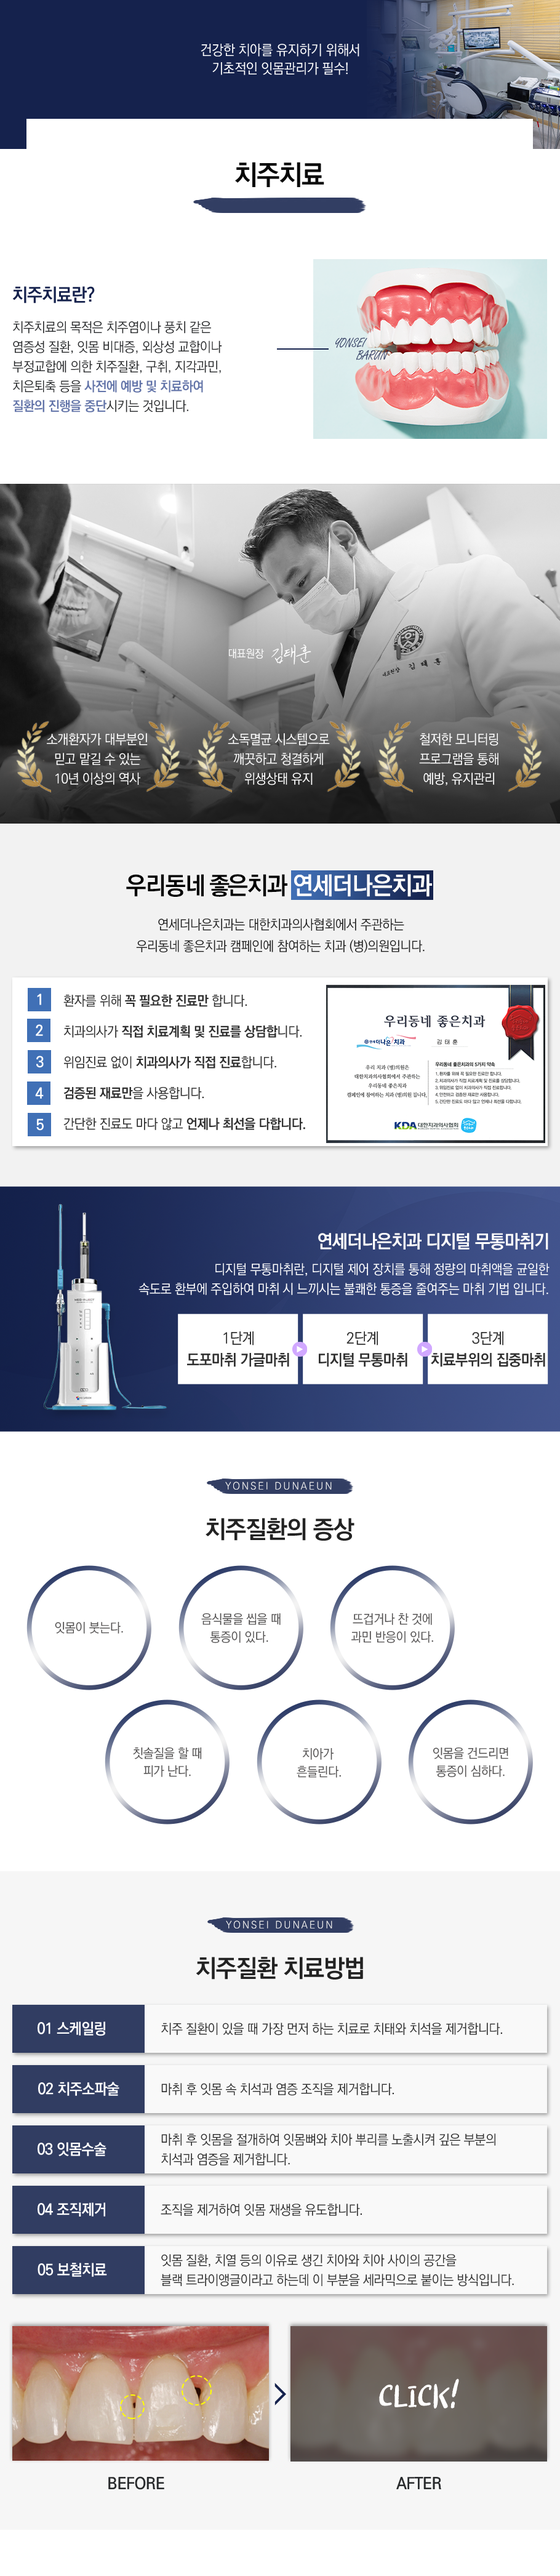
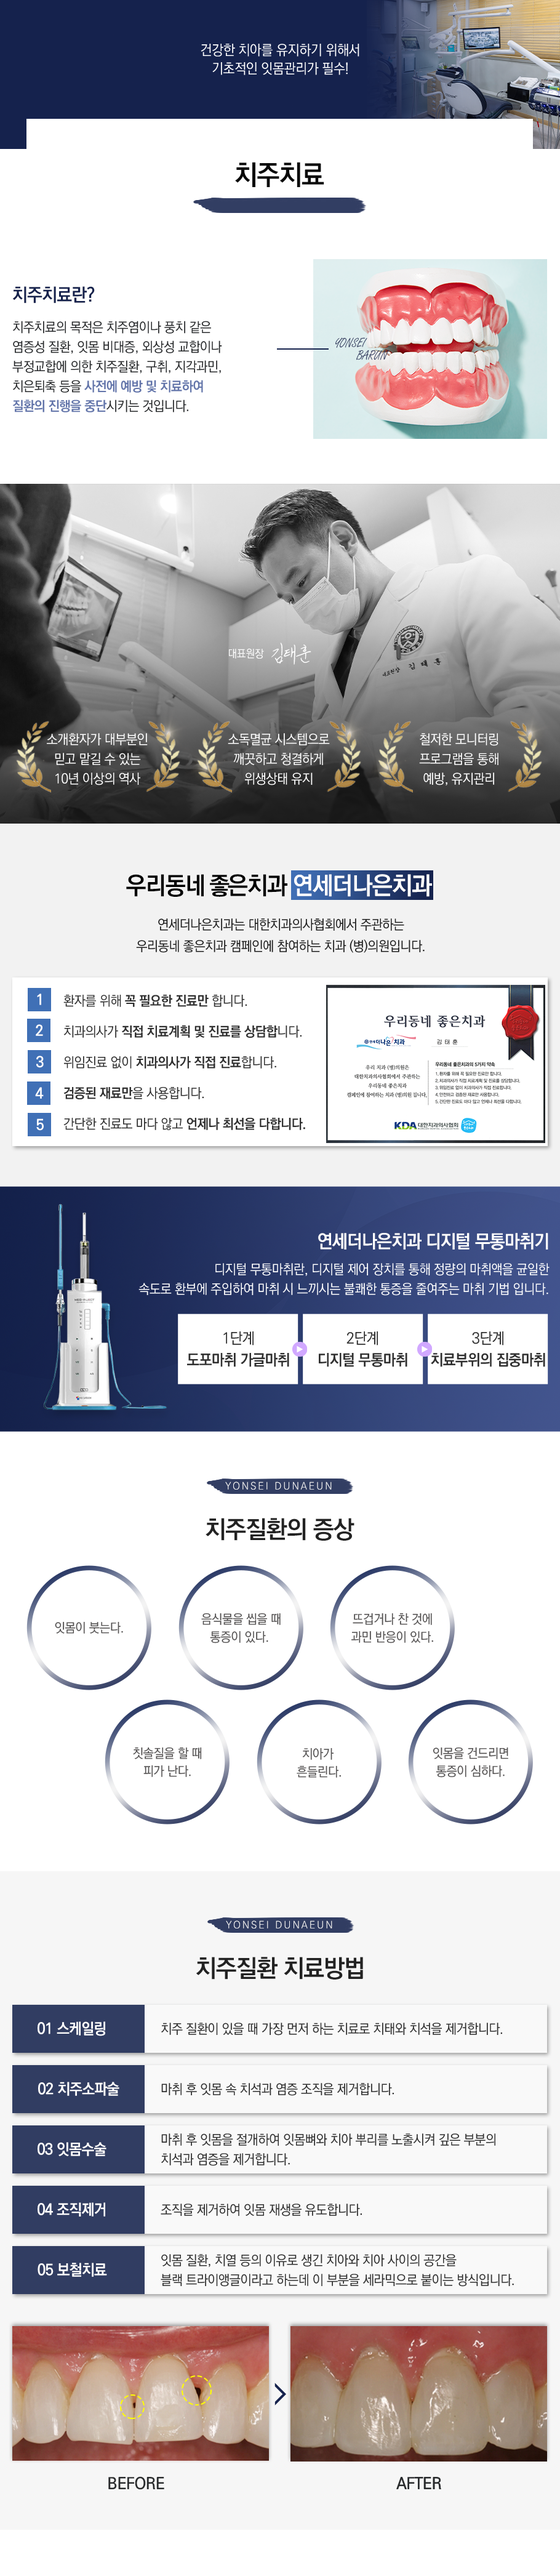
푸터 레이아웃 개선, 이미지 업데이트, 모바일 슬라이드 분리
- 푸터: 로고 왼쪽 배치 및 크기 증가, 모바일 가로 배치, 패딩 축소
- 히어로 슬라이드: 모바일용 mgbg~mgbg5 분리 적용
- 하위 페이지 푸터 HTML 구조 수정 (footer-top 닫기 태그 누락 fix)
- 카테고리 이미지 및 배경 이미지 교체

Changed region(s): [[0.4923, 0.9008, 0.9846, 0.963]]

diff --git a/assets/css/style.css b/assets/css/style.css
@@ -348,34 +348,21 @@ fieldset.form-radio-group legend { font-family: 'Outfit', sans-serif; font-size:
 .hours-closed td { color: var(--accent) !important; font-weight: 500; }
 
 /* ============================================================ FOOTER ============================================================ */
-.main-footer { background: rgba(20, 20, 20, 0.85); backdrop-filter: blur(24px); -webkit-backdrop-filter: blur(24px); padding: 72px 0 40px; color: rgba(255, 255, 255, 0.7); border-top: 1px solid rgba(255, 255, 255, 0.1); position: relative; z-index: 10; }
-.footer-top { margin-bottom: 48px; }
-.footer-columns { display: grid; grid-template-columns: 350px 1fr 180px; gap: 60px; }
-.footer-col { display: flex; flex-direction: column; }
-.footer-logo { margin-bottom: 24px; }
-.footer-logo img { height: 44px; width: auto; filter: invert(1); opacity: 0.9; }
-.footer-slogan { font-family: 'Outfit', 'Noto Sans KR', sans-serif; font-size: 16px; font-weight: 300; color: rgba(255,255,255,0.9); margin-bottom: 24px; letter-spacing: -0.01em; }
-.footer-contact { display: flex; flex-direction: column; gap: 12px; }
-.footer-phone { font-family: 'Outfit', sans-serif; font-size: 26px; font-weight: 300; color: var(--accent); transition: color 0.2s; letter-spacing: 0.05em; display: inline-block; }
-.footer-phone:hover { color: var(--accent-light); }
-.footer-address { font-size: 14px; line-height: 1.6; color: rgba(255, 255, 255, 0.6); }
-.footer-col h4 { font-family: 'Outfit', 'Noto Sans KR', sans-serif; font-size: 16px; margin-bottom: 24px; color: rgba(255, 255, 255, 0.9); font-weight: 500; letter-spacing: -0.01em; }
-.footer-hours table { width: 100%; border-collapse: collapse; max-width: 340px; }
-.footer-hours th, .footer-hours td { padding: 10px 0; font-size: 14px; text-align: left; border-bottom: 1px solid rgba(255, 255, 255, 0.05); }
-.footer-hours th { font-weight: 400; color: rgba(255, 255, 255, 0.5); width: 110px; }
-.footer-hours td { color: rgba(255, 255, 255, 0.85); font-family: 'Outfit', 'Noto Sans KR', sans-serif; font-weight: 300; letter-spacing: 0.02em; }
-.footer-hours tr:last-child th, .footer-hours tr:last-child td { border-bottom: none; }
-.footer-hours .closed { color: var(--accent-light); }
-.footer-links ul { list-style: none; padding: 0; margin: 0; display: flex; flex-direction: column; gap: 14px; }
-.footer-links li a { display: inline-block; font-size: 15px; font-weight: 300; color: rgba(255, 255, 255, 0.6); transition: all 0.2s; }
-.footer-links li a:hover { color: var(--accent); padding-left: 4px; }
-.footer-bottom { border-top: 1px solid rgba(255, 255, 255, 0.1); padding-top: 32px; display: flex; justify-content: space-between; align-items: flex-end; }
-.footer-legal-wrap { display: flex; flex-direction: column; gap: 16px; }
-.footer-legal { display: flex; gap: 24px; }
-.footer-legal a { font-size: 14px; color: rgba(255, 255, 255, 0.9); font-weight: 400; transition: color 0.2s; }
+.main-footer { background: rgba(255, 255, 255, 0.4); backdrop-filter: blur(24px); -webkit-backdrop-filter: blur(24px); padding: 32px 0 32px; color: var(--text-muted); border-top: 1px solid var(--border); position: relative; z-index: 10; }
+.footer-top { margin-bottom: 48px; display: flex; flex-direction: row; align-items: center; gap: 60px; }
+.footer-logo { margin-bottom: 0; flex-shrink: 0; }
+.footer-logo img { height: 80px; width: auto; filter: invert(0); }
+.footer-columns { display: flex; justify-content: flex-start; flex-wrap: wrap; gap: 48px; flex: 1; }
+.footer-col { display: flex; flex-direction: column; flex: 1; min-width: 110px; }
+.footer-col h4 { font-family: 'Outfit', 'Noto Sans KR', sans-serif; font-size: 14px; letter-spacing: 0.1em; text-transform: uppercase; color: var(--text); font-weight: 600; margin-bottom: 20px; text-align: left; }
+.footer-col ul { list-style: none; padding: 0; margin: 0; display: flex; flex-direction: column; gap: 10px; }
+.footer-col li a { display: inline-block; font-size: 14px; font-weight: 300; color: var(--text-muted); padding: 2px 0; transition: all 0.2s; text-align: left; }
+.footer-col li a:hover { color: var(--accent); transform: translateX(4px); }
+.footer-bottom { border-top: 1px solid rgba(0,0,0,0.05); padding-top: 32px; display: flex; justify-content: space-between; align-items: center; font-size: 13px; font-weight: 300; max-width: 900px; margin: 0 auto; width: 100%; }
+.footer-legal { display: flex; gap: 32px; }
+.footer-legal a { color: var(--text-muted); transition: color 0.2s; }
 .footer-legal a:hover { color: var(--accent); }
-.footer-biz-info { font-size: 13px; color: rgba(255, 255, 255, 0.4); line-height: 1.6; }
-.footer-copyright { font-size: 13px; font-family: 'Outfit', sans-serif; color: rgba(255, 255, 255, 0.3); text-align: right; margin-bottom: 4px; }
+.footer-copyright { font-size: 13px; font-family: 'Outfit', sans-serif; color: var(--text-muted); }
 
 /* ============================================================ BUTTONS ============================================================ */
 .btn-primary { display: inline-flex; align-items: center; gap: 8px; background: var(--accent); color: #fff; padding: 14px 32px; font-size: 15px; font-family: 'Outfit', sans-serif; font-weight: 400; border-radius: 50px; transition: all 0.2s; border: none; box-shadow: 0 8px 24px rgba(86,180,233,0.2); }
@@ -556,11 +543,16 @@ fieldset.form-radio-group legend { font-family: 'Outfit', sans-serif; font-size:
   .location-map { height: 300px; }
 
   /* Footer */
-  .footer-columns { grid-template-columns: 1fr 1fr; gap: 48px; }
-  .footer-col.footer-info { grid-column: 1 / -1; }
-  .footer-bottom { flex-direction: column; gap: 24px; align-items: flex-start; }
-  .footer-copyright { text-align: left; }
-  .footer-top { margin-bottom: 48px; }
+  .footer-top { flex-direction: column; align-items: center; margin-bottom: 32px; gap: 24px; }
+  .footer-logo { text-align: center; }
+  .footer-logo img { height: 72px; }
+  .footer-columns { display: flex; flex-wrap: nowrap; gap: 0; width: 100%; }
+  .footer-col { flex: 1; min-width: 0; text-align: center; }
+  .footer-col h4 { font-size: 11px; margin-bottom: 8px; text-align: center; }
+  .footer-col li a { font-size: 11px; }
+  .footer-col ul { gap: 4px; }
+  .footer-bottom { flex-direction: column; gap: 16px; text-align: center; max-width: 100%; }
+  .footer-legal { flex-wrap: wrap; justify-content: center; gap: 24px; }
 
   .floating-contact { display: block; bottom: 60px; right: 16px; z-index: 901; }
   .floating-trigger { width: 52px; height: 52px; font-size: 22px; }
@@ -645,10 +637,15 @@ fieldset.form-radio-group legend { font-family: 'Outfit', sans-serif; font-size:
   .location-hours { padding: 24px; }
   .hours-table td { font-size: 14px; padding: 12px 0; }
 
-  /* Footer: single column */
-  .footer-columns { grid-template-columns: 1fr; gap: 40px; }
-  .footer-top { margin-bottom: 40px;  }
-  .main-footer { padding: 48px 0 40px; }
+  /* Footer: compact row */
+  .footer-top { gap: 16px; margin-bottom: 20px; }
+  .footer-logo img { height: 60px; }
+  .footer-col h4 { font-size: 10px; margin-bottom: 6px; }
+  .footer-col li a { font-size: 10px; }
+  .footer-col ul { gap: 3px; }
+  .footer-col li a { font-size: 11px; text-align: center; }
+  .footer-col ul { gap: 4px; align-items: center; }
+  .main-footer { padding: 16px 0 24px; }
 
   .section-header { flex-direction: column; align-items: flex-start; gap: 16px; }
   .statement-quote { font-size: 72px; }

diff --git a/index.html b/index.html
@@ -166,23 +166,23 @@
         <div class="hero-showcase-inner">
           <div class="hero-bg-slider hero-slider">
             <picture class="slide-item">
-              <source media="(max-width: 1024px)" srcset="assets/images/bg.png">
+              <source media="(max-width: 1024px)" srcset="assets/images/mgbg.png">
               <img src="assets/images/bg.png" alt="연세더나은치과 전경 1" loading="eager">
             </picture>
             <picture class="slide-item">
-              <source media="(max-width: 1024px)" srcset="assets/images/bg2.png">
+              <source media="(max-width: 1024px)" srcset="assets/images/mgbg2.png">
               <img src="assets/images/bg2.png" alt="연세더나은치과 전경 2">
             </picture>
             <picture class="slide-item">
-              <source media="(max-width: 1024px)" srcset="assets/images/bg3.png">
+              <source media="(max-width: 1024px)" srcset="assets/images/mgbg3.png">
               <img src="assets/images/bg3.png" alt="연세더나은치과 전경 3">
             </picture>
             <picture class="slide-item">
-              <source media="(max-width: 1024px)" srcset="assets/images/bg4.png">
+              <source media="(max-width: 1024px)" srcset="assets/images/mgbg4.png">
               <img src="assets/images/bg4.png" alt="연세더나은치과 전경 4">
             </picture>
             <picture class="slide-item">
-              <source media="(max-width: 1024px)" srcset="assets/images/bg5.png">
+              <source media="(max-width: 1024px)" srcset="assets/images/mgbg5.png">
               <img src="assets/images/bg5.png" alt="연세더나은치과 전경 5">
             </picture>
             <div class="hero-bg-overlay"></div>
@@ -619,55 +619,66 @@
   <footer class="main-footer">
     <div class="container">
       <div class="footer-top">
-        <div class="footer-columns">
-          <div class="footer-col footer-info">
-            <div class="footer-logo">
-              <img src="assets/images/logo1.png?v=2" alt="연세더나은치과" width="140" height="40" loading="lazy" decoding="async">
-            </div>
-            <p class="footer-slogan">더 나은 진료, 더 나은 치과.</p>
-            <div class="footer-contact">
-              <a href="tel:0332442080" class="footer-phone">033-244-2080</a>
-              <p class="footer-address">강원도 춘천시 안마산로 111<br>와이나인빌딩 3층</p>
-            </div>
-          </div>
-          
-          <div class="footer-col footer-hours">
-            <h4>진료 시간</h4>
-            <table>
-              <tbody>
-                <tr><th>평일</th><td>09:00 - 18:00</td></tr>
-                <tr><th>토요일</th><td>09:00 - 14:00</td></tr>
-                <tr><th>점심시간</th><td>13:00 - 14:00</td></tr>
-                <tr><th class="closed">일요일·공휴일</th><td class="closed">휴진</td></tr>
-              </tbody>
-            </table>
-          </div>
+        <div class="footer-logo">
+          <img src="assets/images/logo1.png?v=2" alt="연세더나은치과" width="120" height="36" loading="lazy" decoding="async">
+        </div>
 
-          <div class="footer-col footer-links">
-            <h4>주요 진료</h4>
+        <div class="footer-columns">
+          <div class="footer-col">
+            <h4>연세더나은치과</h4>
+            <ul>
+              <li><a href="#about">인사말</a></li>
+              <li><a href="#doctor">의료진 소개</a></li>
+              <li><a href="#location">오시는 길</a></li>
+            </ul>
+          </div>
+          <div class="footer-col">
+            <h4>임플란트</h4>
             <ul>
               <li><a href="implant-main.html">임플란트</a></li>
+              <li><a href="sinus-lift.html">상악동거상술</a></li>
+              <li><a href="bone-graft.html">뼈이식 임플란트</a></li>
+              <li><a href="implant-redo.html">임플란트 재수술</a></li>
+              <li><a href="insurance-implant.html">보험 임플란트</a></li>
+            </ul>
+          </div>
+          <div class="footer-col">
+            <h4>치아교정</h4>
+            <ul>
               <li><a href="orthodontics.html">치아교정</a></li>
-              <li><a href="cavity.html">일반치료</a></li>
-              <li><a href="prosthetics.html">심미치료</a></li>
-              <li><a href="#about">병원 소개</a></li>
+              <li><a href="partial-ortho.html">부분교정</a></li>
+              <li><a href="pediatric-ortho.html">소아교정</a></li>
+            </ul>
+          </div>
+          <div class="footer-col">
+            <h4>일반치료</h4>
+            <ul>
+              <li><a href="cavity.html">충치치료</a></li>
+              <li><a href="root-canal.html">신경치료</a></li>
+              <li><a href="perio.html">치주치료</a></li>
+              <li><a href="wisdom-tooth.html">사랑니 발치</a></li>
+              <li><a href="sealant.html">실란트</a></li>
+              <li><a href="bruxism.html">이갈이</a></li>
+            </ul>
+          </div>
+          <div class="footer-col">
+            <h4>심미치료</h4>
+            <ul>
+              <li><a href="prosthetics.html">보철치료</a></li>
+              <li><a href="zirconia.html">지르코니아</a></li>
+              <li><a href="whitening.html">치아미백</a></li>
+              <li><a href="scaling.html">스케일링</a></li>
             </ul>
           </div>
         </div>
       </div>
 
       <div class="footer-bottom">
-        <div class="footer-legal-wrap">
-          <div class="footer-legal">
-            <a href="#">개인정보처리방침</a>
-            <a href="#">이용약관</a>
-          </div>
-          <div class="footer-biz-info">
-            상호: 연세더나은치과의원 | 대표자: 김태훈 | 사업자등록번호: 안내 준비중<br>
-            주소: 강원도 춘천시 안마산로 111, 와이나인빌딩 3층
-          </div>
+        <div class="footer-legal">
+          <a href="#">개인정보처리방침</a>
+          <a href="#">이용약관</a>
         </div>
-        <div class="footer-copyright">&copy; 2026 연세더나은치과. All rights reserved.</div>
+        <p class="footer-copyright">&copy; 2026 연세더나은치과. All rights reserved.</p>
       </div>
     </div>
   </footer>

diff --git a/bone-graft.html b/bone-graft.html
@@ -134,6 +134,7 @@
           <div class="footer-col"><h4>일반치료</h4><ul><li><a href="cavity.html">충치치료</a></li><li><a href="root-canal.html">신경치료</a></li><li><a href="perio.html">치주치료</a></li><li><a href="wisdom-tooth.html">사랑니 발치</a></li><li><a href="sealant.html">실란트</a></li><li><a href="bruxism.html">이갈이</a></li></ul></div>
           <div class="footer-col"><h4>심미치료</h4><ul><li><a href="prosthetics.html">보철치료</a></li><li><a href="zirconia.html">지르코니아</a></li><li><a href="whitening.html">치아미백</a></li><li><a href="scaling.html">스케일링</a></li></ul></div>
       </div>
+      </div>
       <div class="footer-bottom">
         <div class="footer-legal"><a href="#">개인정보처리방침</a><a href="#">이용약관</a></div>
         <p class="footer-copyright">&copy; 2026 연세더나은치과. All rights reserved.</p>

diff --git a/bruxism.html b/bruxism.html
@@ -134,6 +134,7 @@
           <div class="footer-col"><h4>일반치료</h4><ul><li><a href="cavity.html">충치치료</a></li><li><a href="root-canal.html">신경치료</a></li><li><a href="perio.html">치주치료</a></li><li><a href="wisdom-tooth.html">사랑니 발치</a></li><li><a href="sealant.html">실란트</a></li><li><a href="bruxism.html">이갈이</a></li></ul></div>
           <div class="footer-col"><h4>심미치료</h4><ul><li><a href="prosthetics.html">보철치료</a></li><li><a href="zirconia.html">지르코니아</a></li><li><a href="whitening.html">치아미백</a></li><li><a href="scaling.html">스케일링</a></li></ul></div>
       </div>
+      </div>
       <div class="footer-bottom">
         <div class="footer-legal"><a href="#">개인정보처리방침</a><a href="#">이용약관</a></div>
         <p class="footer-copyright">&copy; 2026 연세더나은치과. All rights reserved.</p>

diff --git a/cavity.html b/cavity.html
@@ -134,6 +134,7 @@
           <div class="footer-col"><h4>일반치료</h4><ul><li><a href="cavity.html">충치치료</a></li><li><a href="root-canal.html">신경치료</a></li><li><a href="perio.html">치주치료</a></li><li><a href="wisdom-tooth.html">사랑니 발치</a></li><li><a href="sealant.html">실란트</a></li><li><a href="bruxism.html">이갈이</a></li></ul></div>
           <div class="footer-col"><h4>심미치료</h4><ul><li><a href="prosthetics.html">보철치료</a></li><li><a href="zirconia.html">지르코니아</a></li><li><a href="whitening.html">치아미백</a></li><li><a href="scaling.html">스케일링</a></li></ul></div>
       </div>
+      </div>
       <div class="footer-bottom">
         <div class="footer-legal"><a href="#">개인정보처리방침</a><a href="#">이용약관</a></div>
         <p class="footer-copyright">&copy; 2026 연세더나은치과. All rights reserved.</p>

diff --git a/implant-main.html b/implant-main.html
@@ -134,6 +134,7 @@
           <div class="footer-col"><h4>일반치료</h4><ul><li><a href="cavity.html">충치치료</a></li><li><a href="root-canal.html">신경치료</a></li><li><a href="perio.html">치주치료</a></li><li><a href="wisdom-tooth.html">사랑니 발치</a></li><li><a href="sealant.html">실란트</a></li><li><a href="bruxism.html">이갈이</a></li></ul></div>
           <div class="footer-col"><h4>심미치료</h4><ul><li><a href="prosthetics.html">보철치료</a></li><li><a href="zirconia.html">지르코니아</a></li><li><a href="whitening.html">치아미백</a></li><li><a href="scaling.html">스케일링</a></li></ul></div>
       </div>
+      </div>
       <div class="footer-bottom">
         <div class="footer-legal"><a href="#">개인정보처리방침</a><a href="#">이용약관</a></div>
         <p class="footer-copyright">&copy; 2026 연세더나은치과. All rights reserved.</p>

diff --git a/implant-redo.html b/implant-redo.html
@@ -134,6 +134,7 @@
           <div class="footer-col"><h4>일반치료</h4><ul><li><a href="cavity.html">충치치료</a></li><li><a href="root-canal.html">신경치료</a></li><li><a href="perio.html">치주치료</a></li><li><a href="wisdom-tooth.html">사랑니 발치</a></li><li><a href="sealant.html">실란트</a></li><li><a href="bruxism.html">이갈이</a></li></ul></div>
           <div class="footer-col"><h4>심미치료</h4><ul><li><a href="prosthetics.html">보철치료</a></li><li><a href="zirconia.html">지르코니아</a></li><li><a href="whitening.html">치아미백</a></li><li><a href="scaling.html">스케일링</a></li></ul></div>
       </div>
+      </div>
       <div class="footer-bottom">
         <div class="footer-legal"><a href="#">개인정보처리방침</a><a href="#">이용약관</a></div>
         <p class="footer-copyright">&copy; 2026 연세더나은치과. All rights reserved.</p>

diff --git a/insurance-implant.html b/insurance-implant.html
@@ -134,6 +134,7 @@
           <div class="footer-col"><h4>일반치료</h4><ul><li><a href="cavity.html">충치치료</a></li><li><a href="root-canal.html">신경치료</a></li><li><a href="perio.html">치주치료</a></li><li><a href="wisdom-tooth.html">사랑니 발치</a></li><li><a href="sealant.html">실란트</a></li><li><a href="bruxism.html">이갈이</a></li></ul></div>
           <div class="footer-col"><h4>심미치료</h4><ul><li><a href="prosthetics.html">보철치료</a></li><li><a href="zirconia.html">지르코니아</a></li><li><a href="whitening.html">치아미백</a></li><li><a href="scaling.html">스케일링</a></li></ul></div>
       </div>
+      </div>
       <div class="footer-bottom">
         <div class="footer-legal"><a href="#">개인정보처리방침</a><a href="#">이용약관</a></div>
         <p class="footer-copyright">&copy; 2026 연세더나은치과. All rights reserved.</p>

diff --git a/orthodontics.html b/orthodontics.html
@@ -134,6 +134,7 @@
           <div class="footer-col"><h4>일반치료</h4><ul><li><a href="cavity.html">충치치료</a></li><li><a href="root-canal.html">신경치료</a></li><li><a href="perio.html">치주치료</a></li><li><a href="wisdom-tooth.html">사랑니 발치</a></li><li><a href="sealant.html">실란트</a></li><li><a href="bruxism.html">이갈이</a></li></ul></div>
           <div class="footer-col"><h4>심미치료</h4><ul><li><a href="prosthetics.html">보철치료</a></li><li><a href="zirconia.html">지르코니아</a></li><li><a href="whitening.html">치아미백</a></li><li><a href="scaling.html">스케일링</a></li></ul></div>
       </div>
+      </div>
       <div class="footer-bottom">
         <div class="footer-legal"><a href="#">개인정보처리방침</a><a href="#">이용약관</a></div>
         <p class="footer-copyright">&copy; 2026 연세더나은치과. All rights reserved.</p>

diff --git a/partial-ortho.html b/partial-ortho.html
@@ -134,6 +134,7 @@
           <div class="footer-col"><h4>일반치료</h4><ul><li><a href="cavity.html">충치치료</a></li><li><a href="root-canal.html">신경치료</a></li><li><a href="perio.html">치주치료</a></li><li><a href="wisdom-tooth.html">사랑니 발치</a></li><li><a href="sealant.html">실란트</a></li><li><a href="bruxism.html">이갈이</a></li></ul></div>
           <div class="footer-col"><h4>심미치료</h4><ul><li><a href="prosthetics.html">보철치료</a></li><li><a href="zirconia.html">지르코니아</a></li><li><a href="whitening.html">치아미백</a></li><li><a href="scaling.html">스케일링</a></li></ul></div>
       </div>
+      </div>
       <div class="footer-bottom">
         <div class="footer-legal"><a href="#">개인정보처리방침</a><a href="#">이용약관</a></div>
         <p class="footer-copyright">&copy; 2026 연세더나은치과. All rights reserved.</p>

diff --git a/pediatric-ortho.html b/pediatric-ortho.html
@@ -134,6 +134,7 @@
           <div class="footer-col"><h4>일반치료</h4><ul><li><a href="cavity.html">충치치료</a></li><li><a href="root-canal.html">신경치료</a></li><li><a href="perio.html">치주치료</a></li><li><a href="wisdom-tooth.html">사랑니 발치</a></li><li><a href="sealant.html">실란트</a></li><li><a href="bruxism.html">이갈이</a></li></ul></div>
           <div class="footer-col"><h4>심미치료</h4><ul><li><a href="prosthetics.html">보철치료</a></li><li><a href="zirconia.html">지르코니아</a></li><li><a href="whitening.html">치아미백</a></li><li><a href="scaling.html">스케일링</a></li></ul></div>
       </div>
+      </div>
       <div class="footer-bottom">
         <div class="footer-legal"><a href="#">개인정보처리방침</a><a href="#">이용약관</a></div>
         <p class="footer-copyright">&copy; 2026 연세더나은치과. All rights reserved.</p>

diff --git a/perio.html b/perio.html
@@ -134,6 +134,7 @@
           <div class="footer-col"><h4>일반치료</h4><ul><li><a href="cavity.html">충치치료</a></li><li><a href="root-canal.html">신경치료</a></li><li><a href="perio.html">치주치료</a></li><li><a href="wisdom-tooth.html">사랑니 발치</a></li><li><a href="sealant.html">실란트</a></li><li><a href="bruxism.html">이갈이</a></li></ul></div>
           <div class="footer-col"><h4>심미치료</h4><ul><li><a href="prosthetics.html">보철치료</a></li><li><a href="zirconia.html">지르코니아</a></li><li><a href="whitening.html">치아미백</a></li><li><a href="scaling.html">스케일링</a></li></ul></div>
       </div>
+      </div>
       <div class="footer-bottom">
         <div class="footer-legal"><a href="#">개인정보처리방침</a><a href="#">이용약관</a></div>
         <p class="footer-copyright">&copy; 2026 연세더나은치과. All rights reserved.</p>
